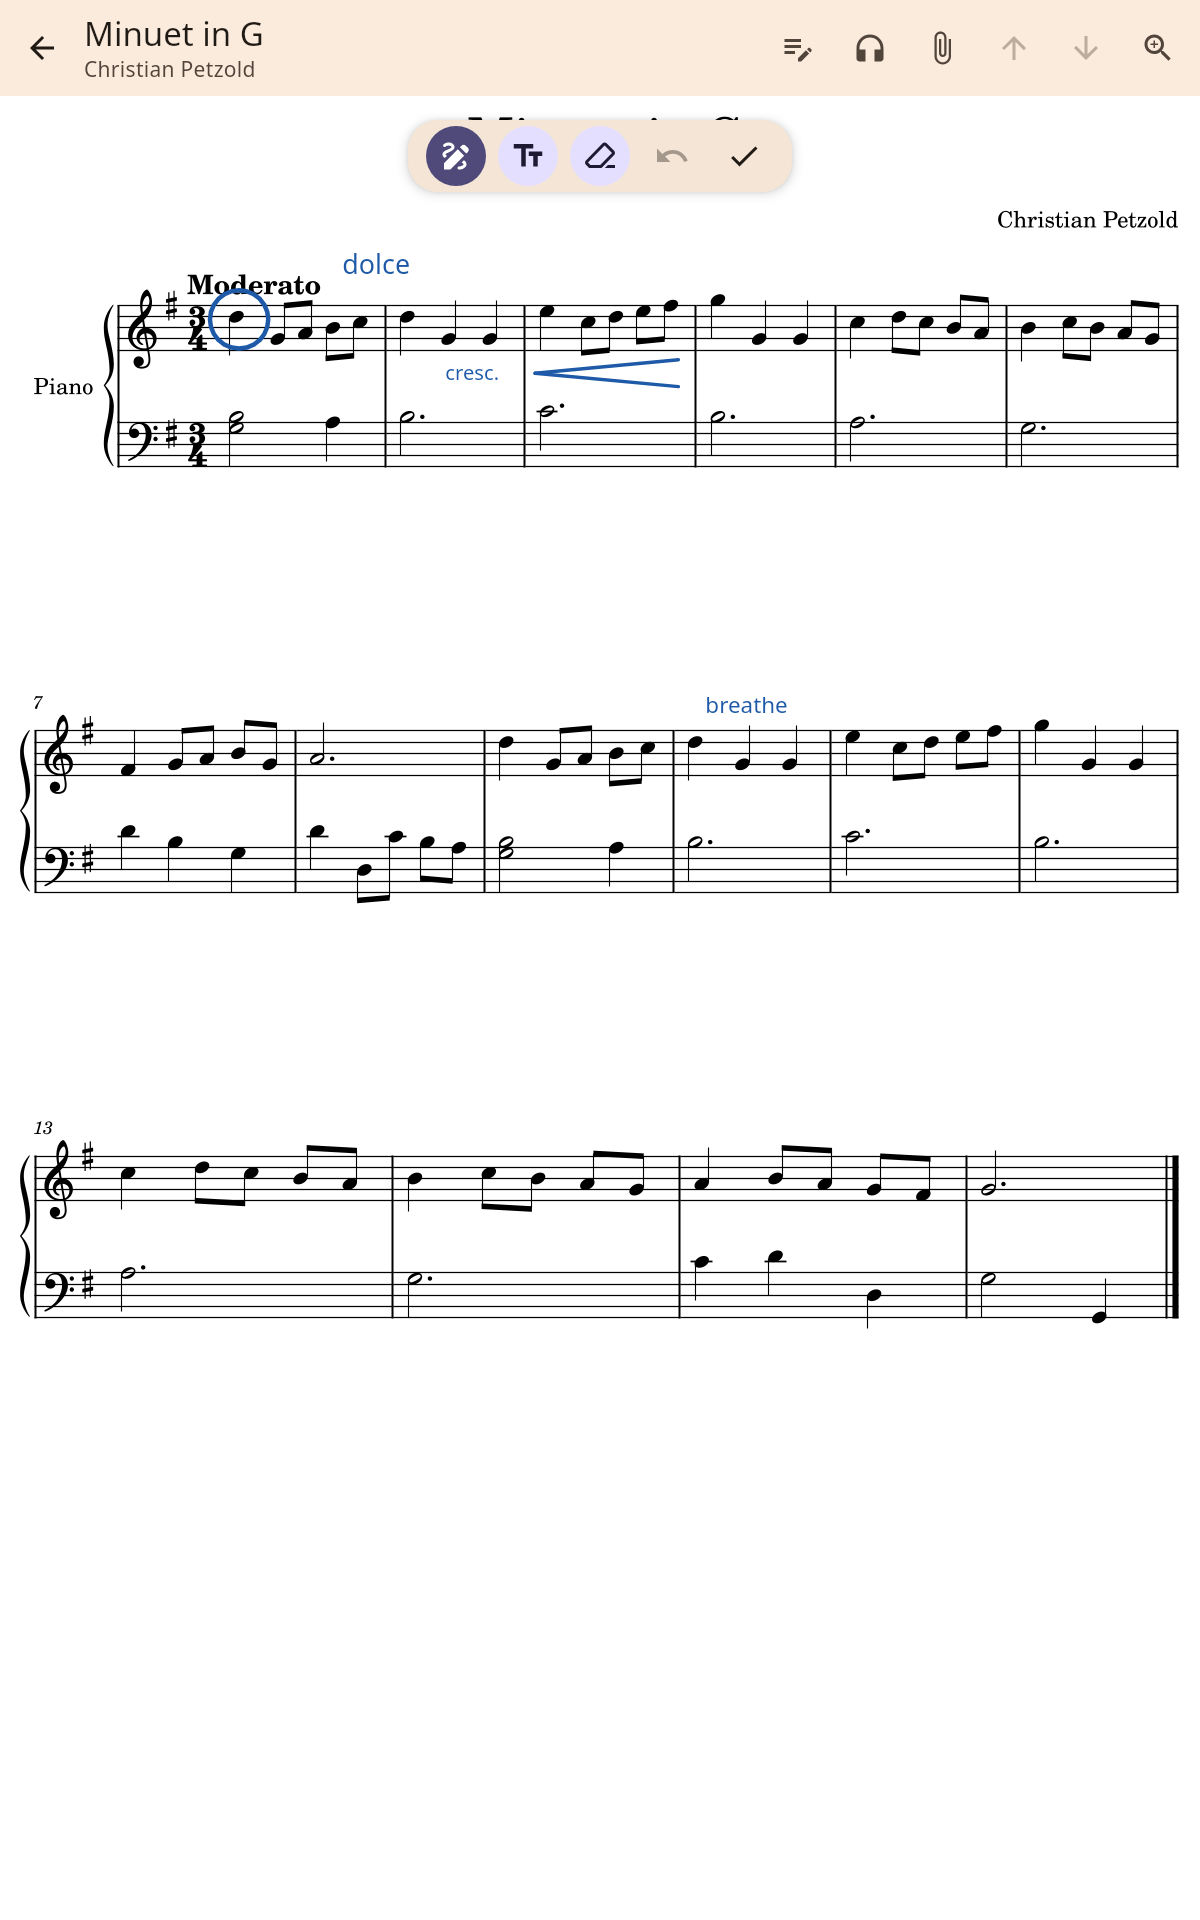
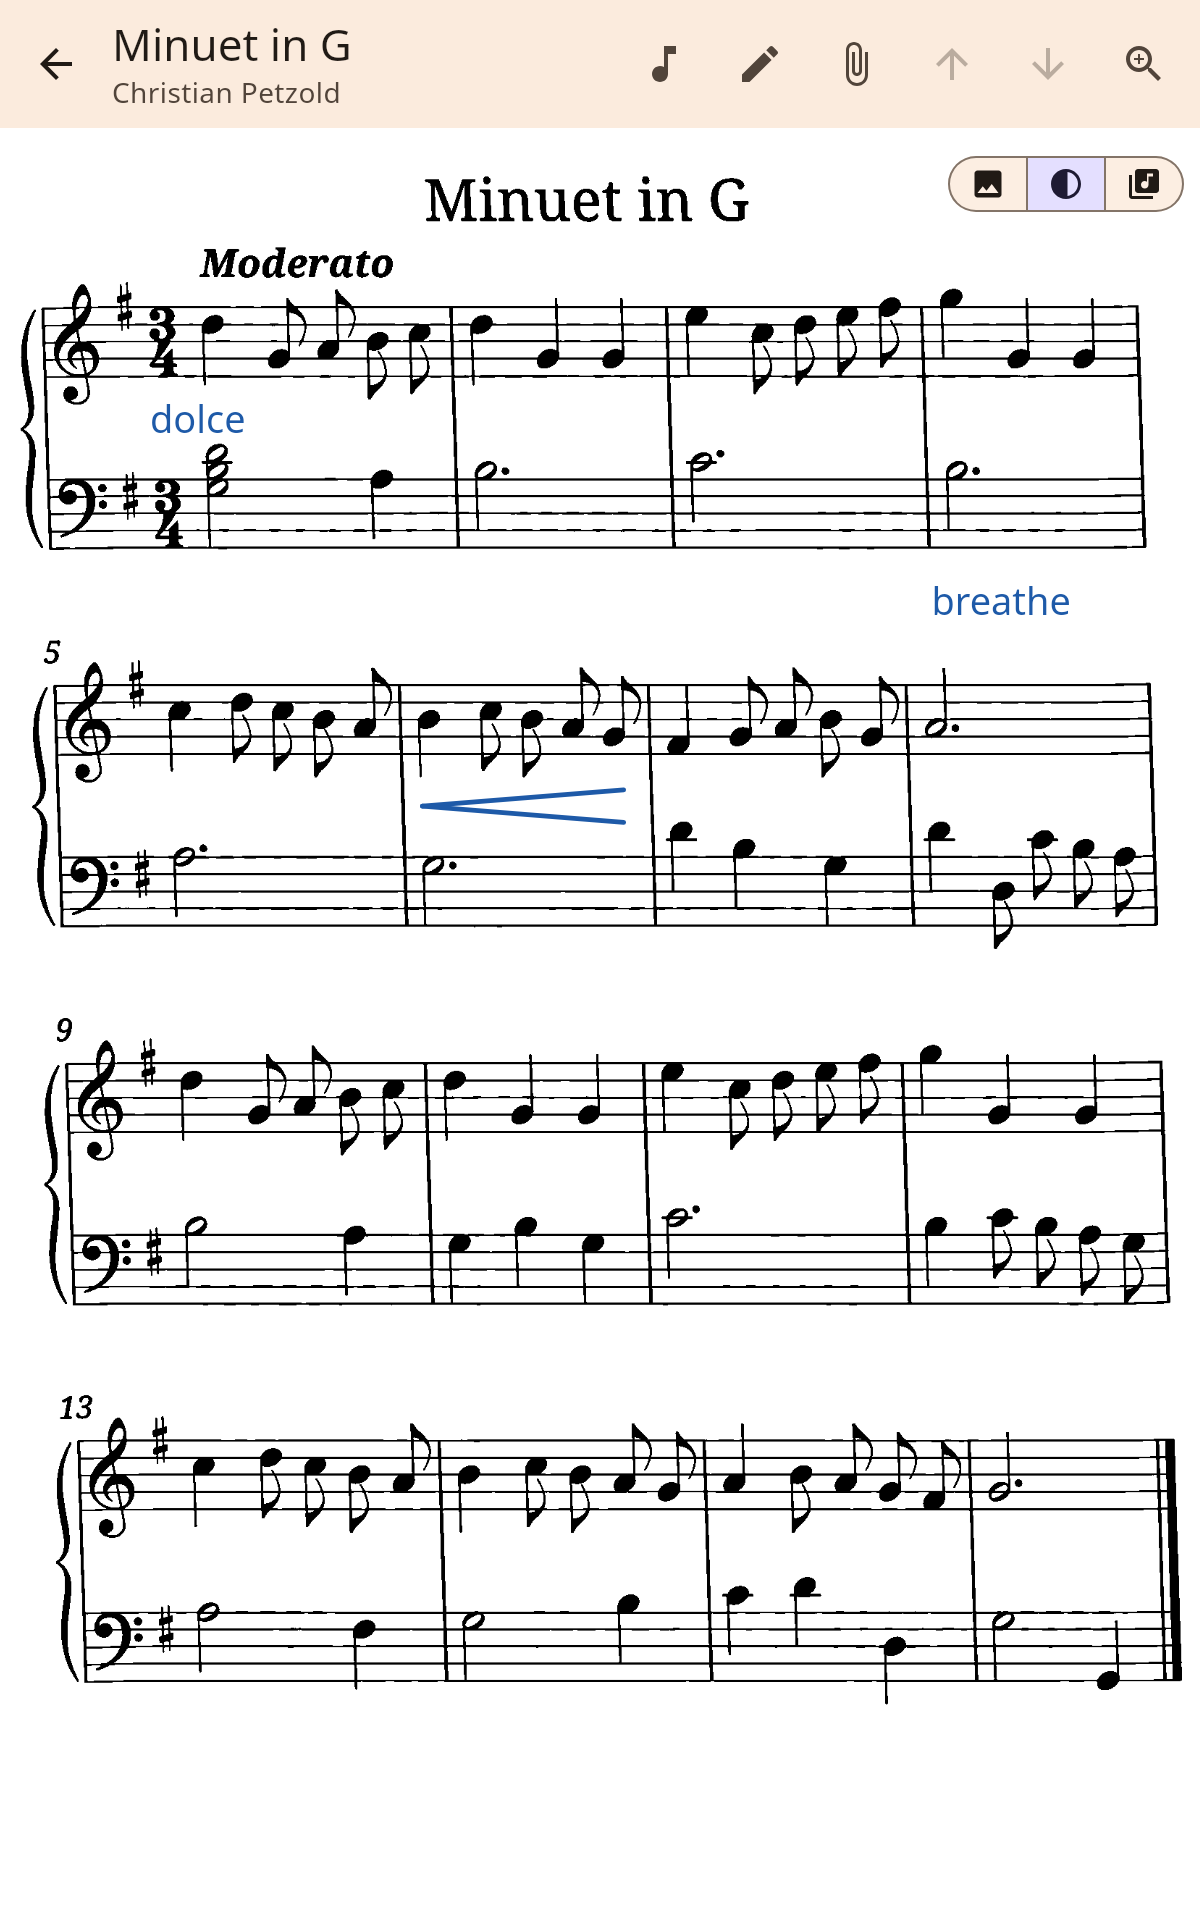
Refresh the README screenshots
The screenshots show the current app again, including the import of a
photo with music recognition, the original, black and white and
recognized views, the merged attachments menu, part editing, the
welcome screen and the settings.

diff --git a/README.md b/README.md
@@ -5,22 +5,28 @@ your own device as plain files: no account, no cloud, no lock-in.
 
 <table>
   <tr>
+    <td align="center"><img src="docs/screenshots/welcome.png" width="200" alt="Welcome"><br>Welcome</td>
     <td align="center"><img src="docs/screenshots/library.png" width="200" alt="Library"><br>Library</td>
-    <td align="center"><img src="docs/screenshots/musicxml.png" width="200" alt="MusicXML score with audio player"><br>MusicXML with audio player</td>
-    <td align="center"><img src="docs/screenshots/playback.png" width="200" alt="Playback"><br>Playback</td>
-    <td align="center"><img src="docs/screenshots/parts.png" width="200" alt="Parts"><br>Parts</td>
+    <td align="center"><img src="docs/screenshots/import.png" width="200" alt="Importing a photo with OMR"><br>Importing a photo with OMR</td>
+    <td align="center"><img src="docs/screenshots/original.png" width="200" alt="Original photo"><br>Original photo</td>
   </tr>
   <tr>
-    <td align="center"><img src="docs/screenshots/annotations.png" width="200" alt="Notes on a PDF score"><br>Notes on a PDF score</td>
-    <td align="center"><img src="docs/screenshots/import.png" width="200" alt="Import wizard"><br>Import wizard</td>
-    <td align="center"><img src="docs/screenshots/settings.png" width="200" alt="Settings"><br>Settings</td>
+    <td align="center"><img src="docs/screenshots/annotations.png" width="200" alt="Black and white with notes"><br>Black and white with notes</td>
+    <td align="center"><img src="docs/screenshots/recognized.png" width="200" alt="Recognized music"><br>Recognized music</td>
+    <td align="center"><img src="docs/screenshots/musicxml.png" width="200" alt="MusicXML with attachments"><br>MusicXML with attachments</td>
+    <td align="center"><img src="docs/screenshots/playback.png" width="200" alt="Playback"><br>Playback</td>
+  </tr>
+  <tr>
+    <td align="center"><img src="docs/screenshots/parts.png" width="200" alt="Parts"><br>Parts</td>
+    <td align="center"><img src="docs/screenshots/edit.png" width="200" alt="Editing parts"><br>Editing parts</td>
     <td align="center"><img src="docs/screenshots/dark.png" width="200" alt="Dark theme"><br>Dark theme</td>
+    <td align="center"><img src="docs/screenshots/settings.png" width="200" alt="Settings"><br>Settings</td>
   </tr>
 </table>
 
 ## Features
 
-- **Import** images, SVGs, PDFs and MusicXML, or take photos with the camera, all in one step. Margins are cropped automatically, photos are straightened and turned into clean black and white pages, and the originals are kept.
+- **Import** images, SVGs, PDFs and MusicXML, or take photos with the camera, all in one step. Margins are cropped automatically and every page is also stored as a straightened black and white version. In the viewer you switch between the original, the black and white pages and the recognized music.
 - **Music recognition** – make images, scans and PDFs playable: the notes are recognized on your device with the models
   of [homr](https://github.com/liebharc/homr) and highlighted in the original pages during playback and play-along.
 - **Parts** – keep several parts per score, for example one per instrument.
